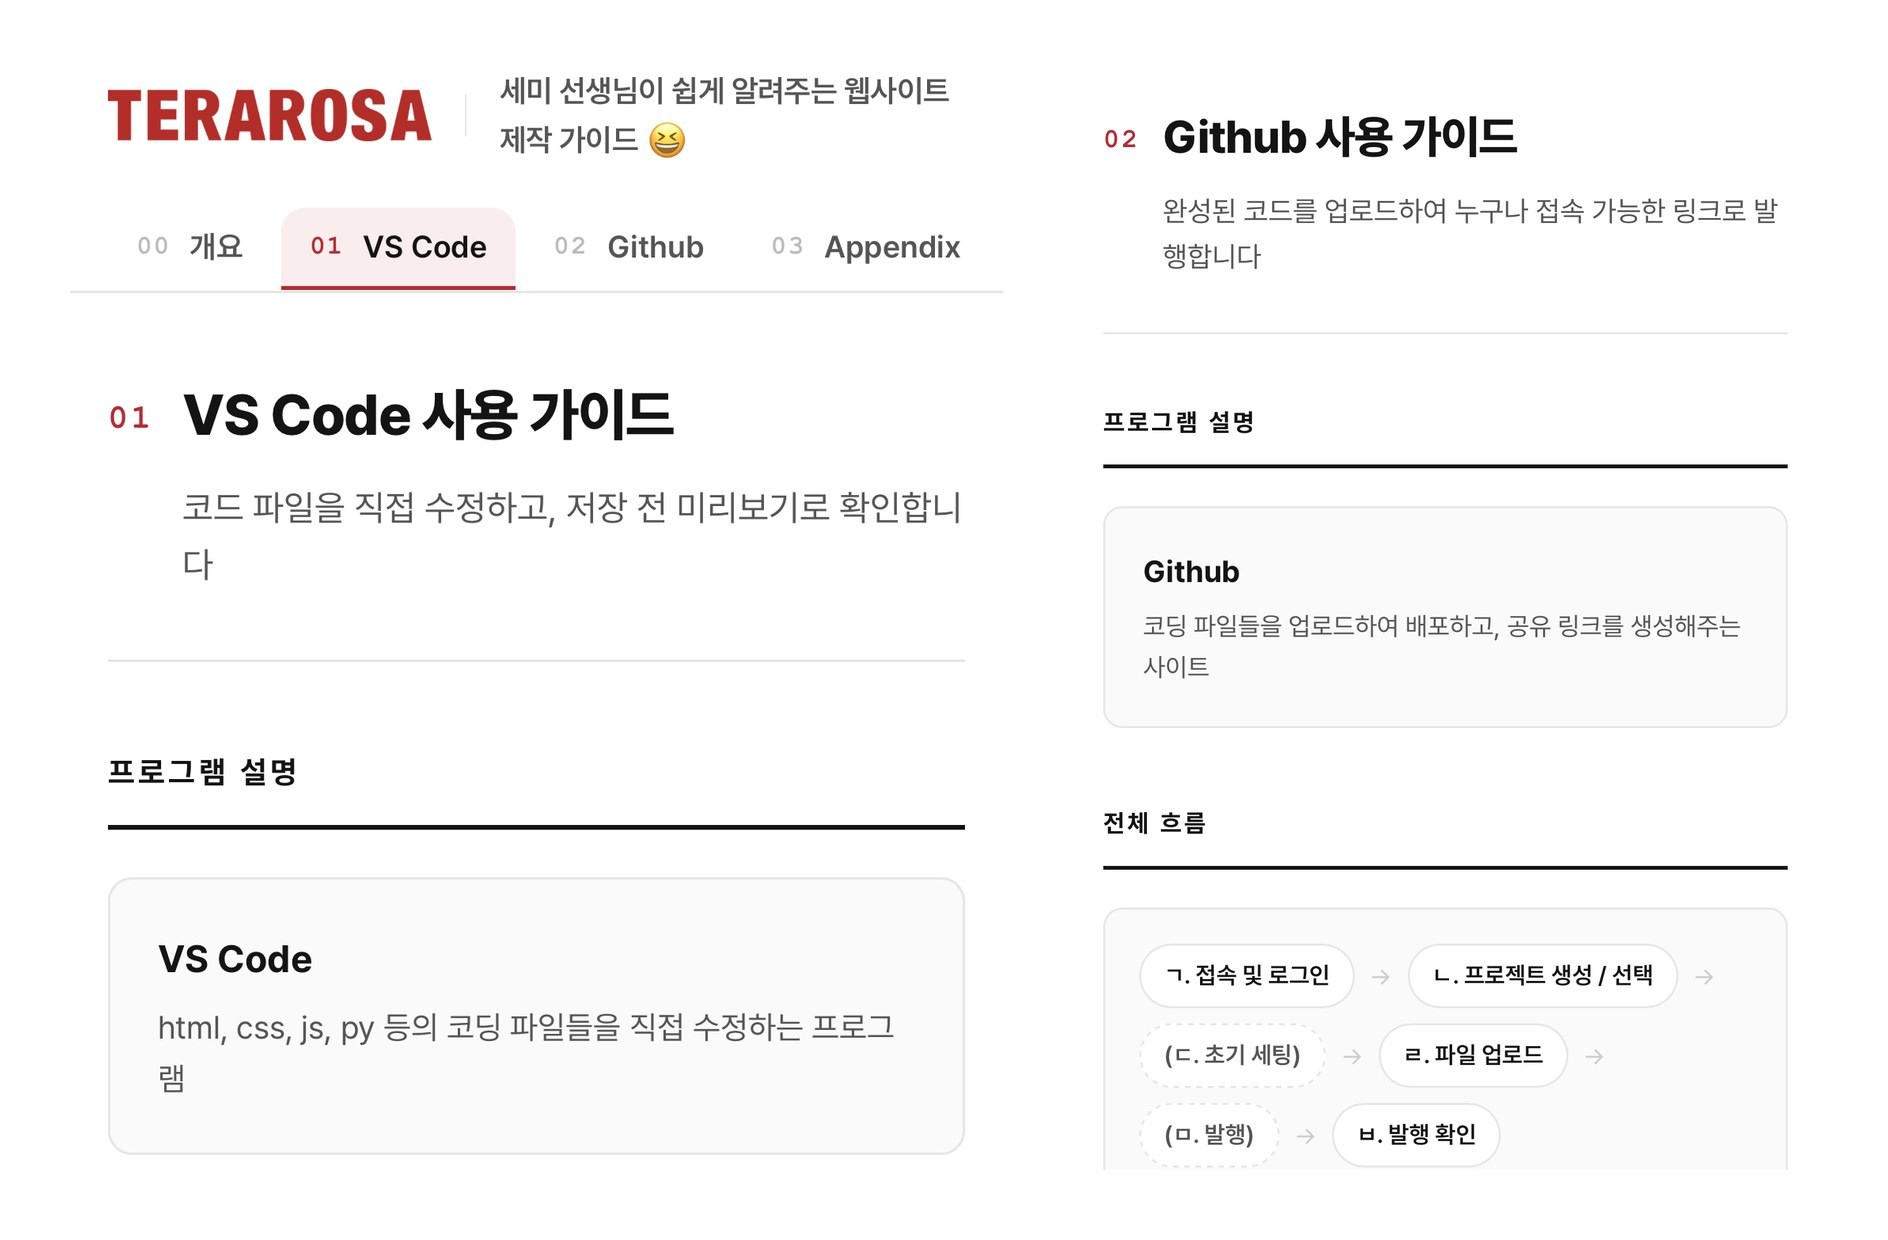
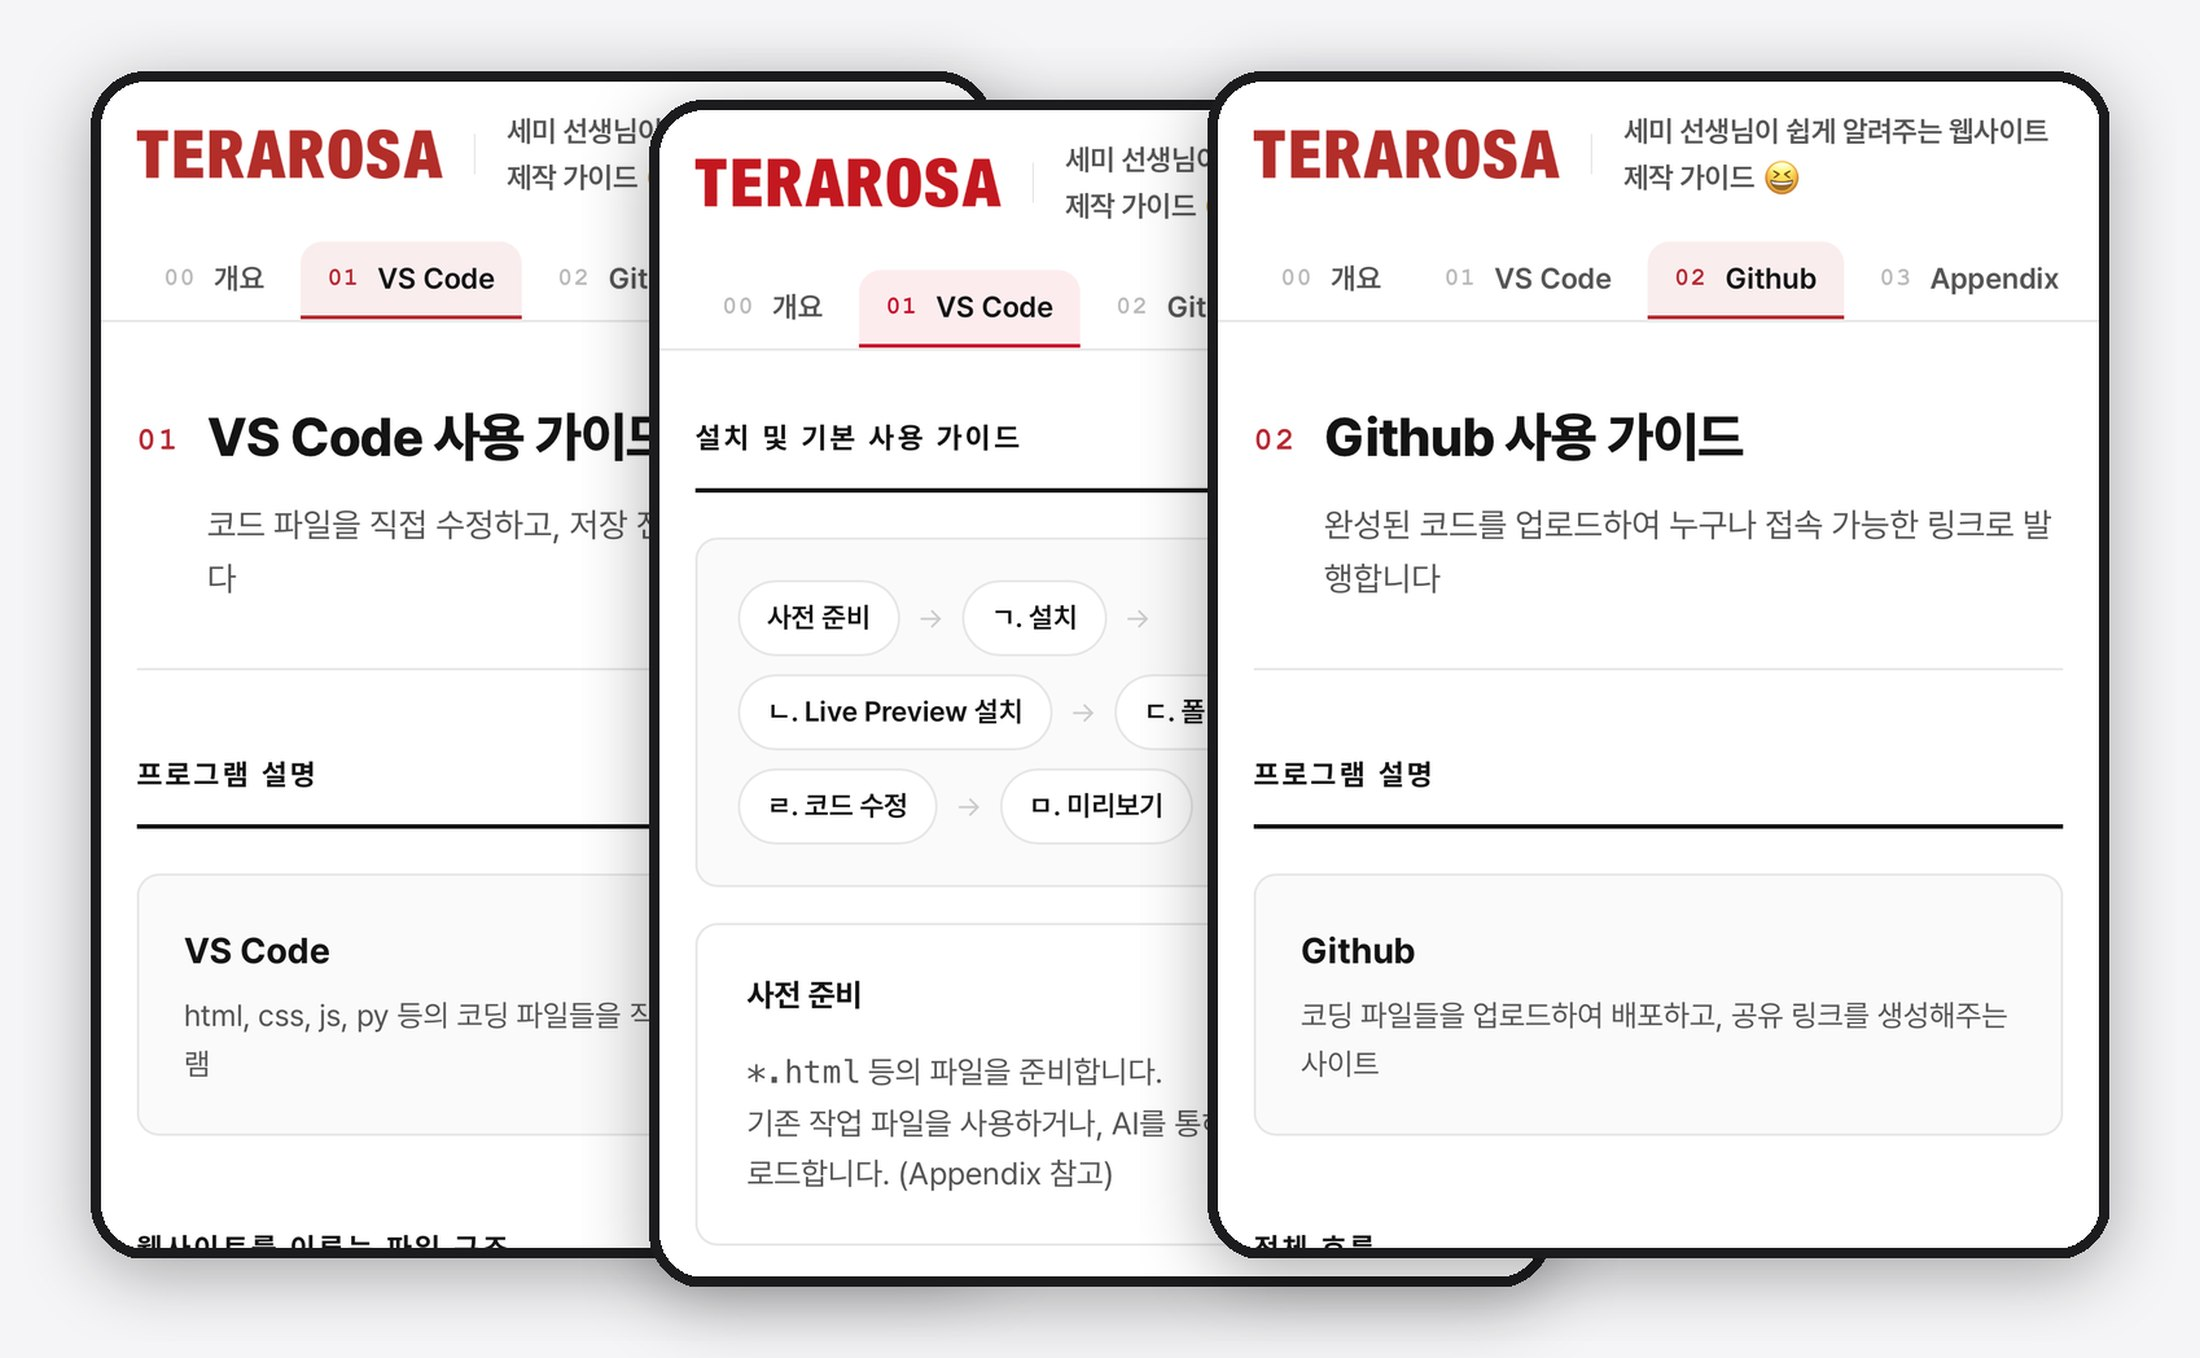
Add files via upload

diff --git a/index.html b/index.html
@@ -3,7 +3,7 @@
 <head>
   <meta charset="UTF-8">
   <meta name="viewport" content="width=device-width, initial-scale=1.0">
-  <title>박세미 — Culture BP · 조직문화</title>
+  <title>박세미 — 조직문화 · 교육</title>
   <link rel="stylesheet" as="style" crossorigin
     href="https://cdn.jsdelivr.net/gh/orioncactus/pretendard@v1.3.9/dist/web/static/pretendard.css">
   <style>
@@ -258,6 +258,44 @@
     .about, .cases, .voices, .retro, .contact { padding-left: 5vw; padding-right: 5vw; }
     footer { padding: 2rem 5vw; flex-direction: column; gap: 0.5rem; text-align: center; }
   }
+
+  /* PRINT — 카드 앞/뒤를 모두 펼쳐서 출력 */
+  @media print {
+    @page { margin: 14mm 12mm; }
+    body { font-weight: 400; }
+    nav { display: none; }
+
+    /* 카드 스테이지 해제: 앞면과 뒷면을 일반 흐름으로 */
+    .card-body { height: auto !important; }
+    .card-front, .card-back {
+      position: static; height: auto; opacity: 1 !important;
+      pointer-events: auto; overflow: visible;
+    }
+    .card-front { display: block; margin-bottom: 1.2rem; }
+    .card-front .card-photo { display: none; }
+    .cf-wide { display: block; }
+    .btn-tog { display: none; }
+
+    /* 이미지 자연 높이 */
+    .cb-imgs { flex-direction: column; }
+    .cb-img-box img, .cb-img-box video { height: auto !important; width: 100%; }
+    .case-card--wide .cb-vidwrap { flex-direction: column; }
+    .case-card--wide .cb-vidwrap .cb-img-box { height: auto; }
+
+    /* 페이지 단위 보호 */
+    .case-card, .cb-result, .voice-card, .retro-pull {
+      break-inside: avoid; page-break-inside: avoid;
+    }
+    .hero { min-height: auto; padding: 2rem 0 3rem; }
+    .about, .cases, .voices, .retro, .contact { padding: 2.5rem 0; }
+    .card-grid { display: block; }
+    .case-card { margin-bottom: 1.5rem; }
+
+    /* 배경색·강조색 유지 (기본은 인쇄 시 삭제됨) */
+    * { -webkit-print-color-adjust: exact; print-color-adjust: exact; }
+    .hero, .h-eye, .h-title, .h-sub { animation: none; opacity: 1; }
+    [data-rv] { opacity: 1 !important; transform: none !important; }
+  }
   </style>
 </head>
 <body>
@@ -276,29 +314,25 @@
 
 <!-- HERO -->
 <section class="hero" id="top">
-  <p class="h-eye">Culture &amp; People Portfolio · 박세미</p>
+  <p class="h-eye">조직문화 · 교육 Portfolio · 박세미</p>
   <h1 class="h-title">
-    사람이 두 배로 늘어도<br>
-    <em>우리다움</em>이 남는 조직은<br>
-    무엇이 다를까요?
+    선언된 가치는<br>
+    어떻게 <em>일하는 방식</em>이<br>
+    될 수 있을까요?
   </h1>
-  <p class="h-sub">겉보기엔 다른 동료들을 땅속에서 잇는 균근처럼, 저는 말로만 떠돌던 '우리다움'을 문서와 시스템으로 붙잡아 매일의 행동으로 만들어 온 사람입니다.</p>
+  <p class="h-sub">저는 조직문화와 교육을 분리해서 보지 않습니다. 겉보기엔 다른 동료들을 땅속에서 잇는 균근처럼, 진단에서 출발해 배움이 행동이 되고 그 행동이 문화로 뿌리내리는 구조를 먼저 만들어 보여주는 사람입니다.</p>
   <div class="h-stats">
     <div>
-      <div class="hs-num">0→1</div>
-      <div class="hs-lbl">전사 가치 체계<br>최초 정의·문서화</div>
+      <div class="hs-num">60%</div>
+      <div class="hs-lbl">현장 독립 기간 단축<br>10개월 → 4개월</div>
     </div>
     <div>
-      <div class="hs-num">97%</div>
-      <div class="hs-lbl">신규 입사자<br>소프트랜딩</div>
+      <div class="hs-num">124%</div>
+      <div class="hs-lbl">온보딩 KPI 달성<br>97% 소프트랜딩</div>
     </div>
     <div>
       <div class="hs-num">2.1배</div>
-      <div class="hs-lbl">조직 확장 속 온보딩<br>99명 → 209명</div>
-    </div>
-    <div>
-      <div class="hs-num">600명+</div>
-      <div class="hs-lbl">온보딩 경험 설계<br>2022 – 2026</div>
+      <div class="hs-lbl">연간 온보딩 규모 확대<br>99명 → 209명</div>
     </div>
   </div>
 </section>
@@ -306,31 +340,32 @@
 <!-- ABOUT -->
 <section class="about" id="about">
   <p class="s-eye">About</p>
-  <h2 class="s-title">문화는 선언으로 만들어지지 않습니다.<br>매일의 행동에 스며들 때 남습니다.</h2>
+  <h2 class="s-title">문화는 선포하는 것이 아니라,<br>구조로 스며들게 하는 것입니다.</h2>
   <div class="about-grid" data-rv>
     <div>
       <p class="about-belief">
         "박세미와 동료라서 든든하다." 커리어 첫날부터 지금까지 지켜온 단 하나의 기준입니다.
       </p>
       <ul class="about-facts">
-        <li>테라로사 8년차 — 바리스타로 시작해 2021년부터 5년간 조직의 문화·교육 기능을 밑그림부터 구축·운영한 사내 유일 현장 출신 기획자</li>
-        <li>전사 핵심 가치와 일하는 방식을 298p 매뉴얼북으로 최초 문서화 · 사내 소식지·호칭 캠페인 등 내부 브랜딩 전반 설계</li>
-        <li>AI를 무기로 HTML/CSS/JS 웹 시스템 직접 개발 · Premiere Pro 독학 영상 제작 · 경영진 협업 및 현장 리더 코칭 경험</li>
-        <li>온보딩 경험 재설계로 신규 입사자 소프트랜딩 97% · 조직 확장 속 연간 인원 2.1배 확대</li>
+        <li>테라로사 8년차 — 바리스타로 시작해 2021년부터 5년간 조직의 조직문화·HRD 기능을 밑그림부터 구축·운영한 사내 유일 현장 출신 기획자</li>
+        <li>AI를 무기로 HTML/CSS/JS 웹 시스템 직접 개발 · Premiere Pro 독학 영상 제작 · 298p 매뉴얼 단독 집필</li>
+        <li>교육생 600명 이상 직접 훈련·평가 배출 · 美 커피 평가 기관 ACE 국제 센서리 교육 조교·통역 2회 참여</li>
+        <li>온보딩 체계 개편으로 연간 교육 인원 99명 → 209명 2.1배 확대 · KPI 124% 달성</li>
+        <li>섬유공학 전공 · 첫 커리어는 해외 발주·품질검수·통관을 전 과정 영어로 수행한 의류 부자재 실무</li>
       </ul>
     </div>
     <div class="pillars">
       <div class="pillar">
-        <div class="p-name">Define What's Ours</div>
-        <div class="p-desc">흩어져 있던 '우리다움'을 언어로 붙잡습니다. 정의되지 않은 문화는 전달될 수 없습니다.</div>
+        <div class="p-name">Diagnose First</div>
+        <div class="p-desc">현상이 아닌 본질을 파고듭니다. 데이터와 현장의 목소리를 동시에 읽어 문제를 정확히 정의합니다.</div>
       </div>
       <div class="pillar">
         <div class="p-name">Zero-to-One Execution</div>
-        <div class="p-desc">매뉴얼이 없으면 씁니다. 툴이 없으면 직접 만듭니다. 문화를 만질 수 있는 실체로 만듭니다.</div>
+        <div class="p-desc">매뉴얼이 없으면 씁니다. 툴이 없으면 직접 만듭니다. 기획을 직접 실행으로 연결합니다.</div>
       </div>
       <div class="pillar">
-        <div class="p-name">Embed, Don't Announce</div>
-        <div class="p-desc">캠페인은 끝나지만 구조는 남습니다. 온보딩과 일상의 접점에 문화를 심습니다.</div>
+        <div class="p-name">Scale by Enabling</div>
+        <div class="p-desc">나 혼자 잘하는 것이 아니라, 팀 전체가 잘할 수 있도록 구조를 설계합니다.</div>
       </div>
     </div>
   </div>
@@ -340,7 +375,7 @@
 <section class="cases" id="cases">
   <div class="cases-head">
     <p class="s-eye">Selected Cases</p>
-    <h2 class="s-title">정의하고, 직접 만들고,<br>조직에 스며들게 했습니다.</h2>
+    <h2 class="s-title">진단하고, 직접 만들고,<br>수치로 증명했습니다.</h2>
   </div>
 
   <div class="card-grid">
@@ -348,7 +383,7 @@
     <!-- CASE 01 -->
     <div class="case-card" id="card-01" data-rv>
       <div class="card-hd">
-        <span class="card-tag">Culture &amp; Identity</span>
+        <span class="card-tag">조직문화 · 사내 커뮤니케이션</span>
         <button class="btn-tog" onclick="tog('01')" aria-label="케이스 열기">⊕</button>
       </div>
       <div class="card-body" id="body-01">
@@ -360,16 +395,16 @@
         </div>
       </div>
       <div class="card-back" id="back-01">
-        <p class="cb-open">전사에 '우리다운 것'이 무엇인지, 정의조차 없었습니다. 문화는 리더가 바뀔 때마다 조금씩 다르게 전달되고 있었습니다.</p>
+        <p class="cb-open">전사에 '우리다운 것'이 무엇인지, 정의조차 없었습니다.</p>
         <ul class="cb-acts">
           <li>
             <strong>브랜드 매뉴얼북 집필 (0→1)</strong> — 핵심 가치와 일하는 방식을 처음으로 문서화
           </li>
           <li>
-            <strong>사내 소식지 직접 구축</strong> — 웹 기반으로 단독 제작 후 팀에 이관
+            <strong>사내 커뮤니케이션 채널 구축</strong> — 웹 기반 사내 소식지를 단독 제작 후 팀에 이관
           </li>
           <li>
-            <strong>호칭 '님' 단일화 캠페인</strong> — 경영진과 협업, 온보딩 전반에 내재화
+            <strong>호칭 '님' 단일화 변화관리</strong> — 경영진 메시지를 현장 언어로 전파, 온보딩 전반에 내재화
           </li>
         </ul>
         <div class="cb-imgs">
@@ -397,7 +432,7 @@
     <!-- CASE 02 -->
     <div class="case-card" id="card-02" data-rv>
       <div class="card-hd">
-        <span class="card-tag">Onboarding Experience</span>
+        <span class="card-tag">Onboarding &amp; Growth</span>
         <button class="btn-tog" onclick="tog('02')" aria-label="케이스 열기">⊕</button>
       </div>
       <div class="card-body" id="body-02">
@@ -409,16 +444,16 @@
         </div>
       </div>
       <div class="card-back" id="back-02">
-        <p class="cb-open">입사 첫 3개월은 조직을 처음 배우는 시간입니다. 그런데 그 경험이 배치 매장마다 완전히 달랐습니다.</p>
+        <p class="cb-open">원인은 개인의 역량 부족이 아니었습니다. 교육·실행·피드백이 단절된 구조였습니다.</p>
         <ul class="cb-acts">
           <li>
             <strong>순환 온보딩 설계</strong> — 집체 교육을 3-3-2 현장 순환 구조로 전환
           </li>
           <li>
-            <strong>리더십 패러다임 전환</strong> — 리더를 '지시자'에서 '코치'로 재정의
+            <strong>리더십 교육 병행 설계</strong> — 리더를 '지시자'에서 '코치'로 재정의
           </li>
           <li>
-            <strong>온보딩 사이트 단독 구축</strong> — 트래커·퀴즈·평가를 HTML/CSS/JS로
+            <strong>교육 플랫폼 단독 구축</strong> — 트래커·퀴즈·평가·학습 데이터 관리를 HTML/CSS/JS로
           </li>
         </ul>
         <div class="cb-imgs single">
@@ -442,7 +477,7 @@
               <div class="cn-lbl">온보딩 KPI<br>초과 달성</div>
             </div>
           </div>
-          <p class="cb-rtext">개편 전 연간 99명이던 온보딩 규모를 2025년 209명으로 <strong>2.1배 확대</strong>했습니다. 사람이 두 배로 늘어도 신규 입사자가 받는 첫 경험의 질이 흔들리지 않는다는 뜻입니다.</p>
+          <p class="cb-rtext">개편 전 연간 99명이던 온보딩 규모를 2025년 209명으로 <strong>2.1배 확대</strong>했습니다. 인원이 두 배가 되어도 품질이 흔들리지 않는, 확장 가능한 구조라는 뜻입니다.</p>
           <div class="growth">
             <div class="g-col"><span class="g-val">70</span><div class="g-bar" style="height:24px"></div><span class="g-yr">'22</span></div>
             <div class="g-col"><span class="g-val">75</span><div class="g-bar" style="height:26px"></div><span class="g-yr">'23</span></div>
@@ -459,7 +494,7 @@
     <!-- CASE 03 — WIDE -->
     <div class="case-card case-card--wide" id="card-03" data-rv>
       <div class="card-hd">
-        <span class="card-tag">Enablement &amp; Systems</span>
+        <span class="card-tag">L&amp;D System</span>
         <button class="btn-tog" onclick="tog('03')" aria-label="케이스 열기">⊕</button>
       </div>
       <div class="card-body" id="body-03">
@@ -516,8 +551,8 @@
 <!-- VOICES -->
 <section class="voices" id="voices">
   <div class="voices-head">
-    <h2 class="voices-title">숫자가 효율을 증명했다면,<br><em>이 문장들은 문화를 증명합니다.</em></h2>
-    <p class="voices-note">제가 설계한 온보딩을 처음 통과한 신규 입사자들의 서베이 응답 中 (원문 발췌)</p>
+    <h2 class="voices-title">진단은 숫자로 시작해,<br><em>구성원의 문장으로 완성됩니다.</em></h2>
+    <p class="voices-note">제가 설계·운영한 온보딩 서베이 응답 中 · 정량 지표와 함께 정성 응답을 수집해 다음 차수 개선에 반영했습니다</p>
   </div>
   <div class="voice-list" data-rv>
     <div class="voice-card">
@@ -565,7 +600,7 @@
 <section class="contact" id="contact">
   <p class="s-eye">Contact</p>
   <h2 class="s-title">서로 다른 동료들을 잇는<br>균근이 되고 싶습니다</h2>
-  <p class="contact-sub">눈에 띄지 않아도, 연결한 사람들이 더 높이 자랄 때 제 역할을 다합니다. 조직이 커질수록 그 연결은 저절로 생기지 않습니다.</p>
+  <p class="contact-sub">눈에 띄지 않아도, 연결한 사람들이 더 높이 자랄 때 제 역할을 다합니다.</p>
   <div class="contact-btns">
     <a href="mailto:bobsemi@me.com" class="btn-primary">이메일 보내기</a>
   </div>
@@ -573,7 +608,7 @@
 
 <!-- FOOTER -->
 <footer>
-  <span>박세미 · Culture BP · 조직문화</span>
+  <span>박세미 · 조직문화 · 교육</span>
   <span>© 2026</span>
 </footer>
 
